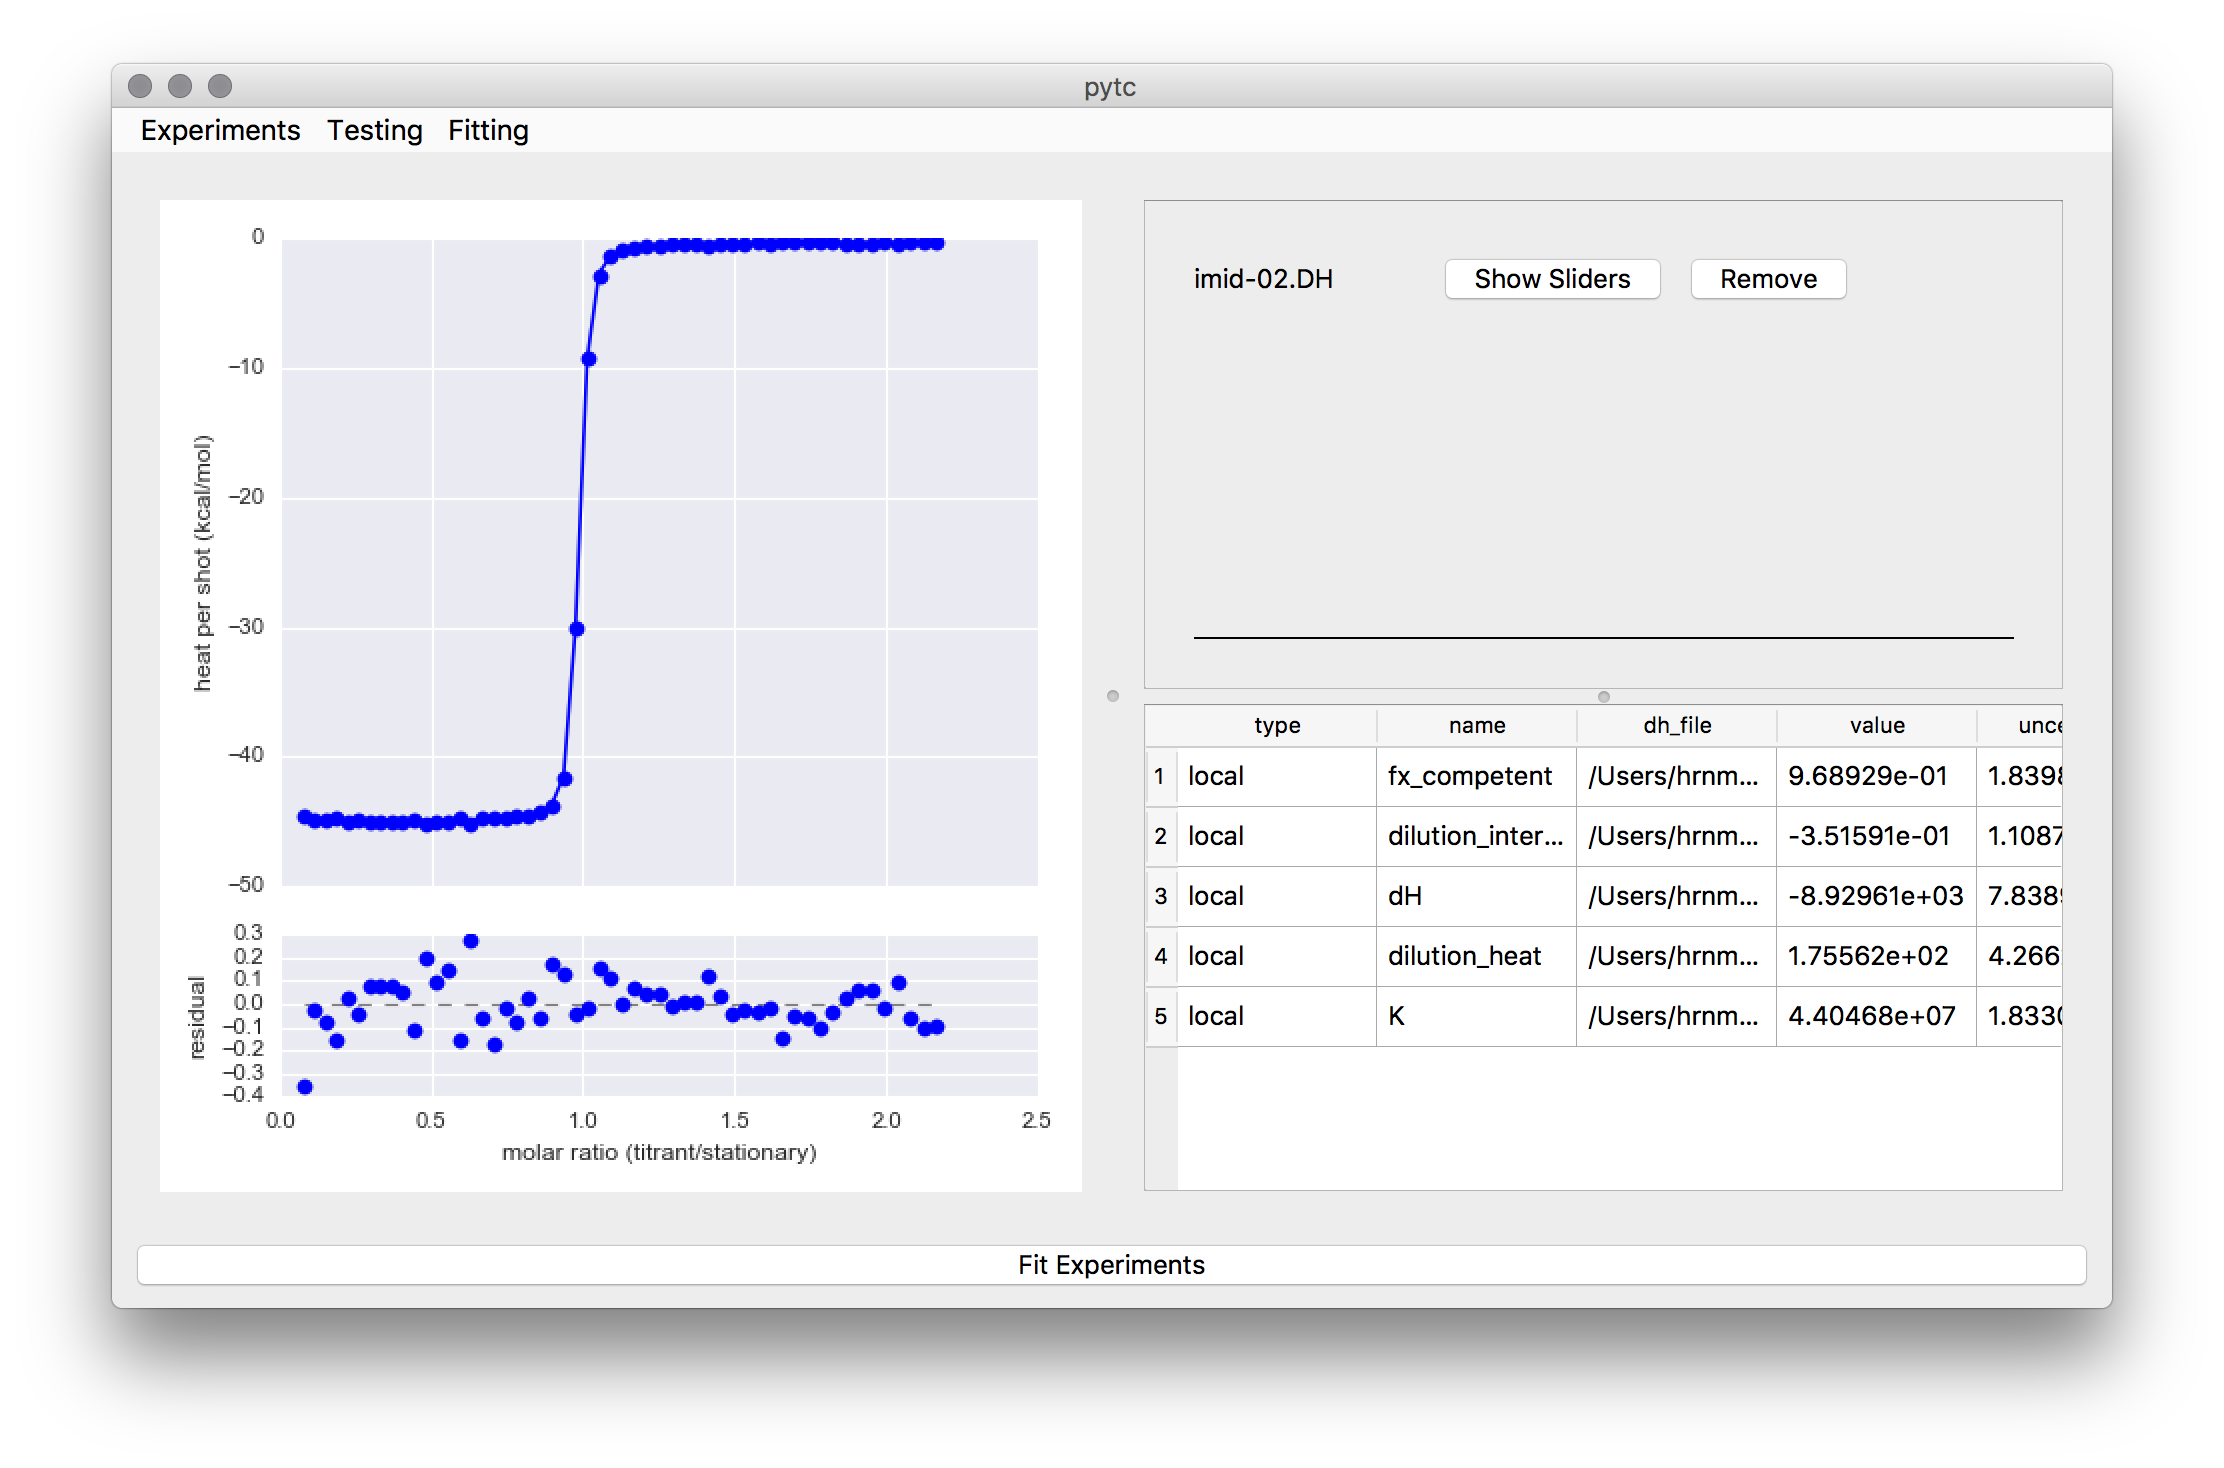
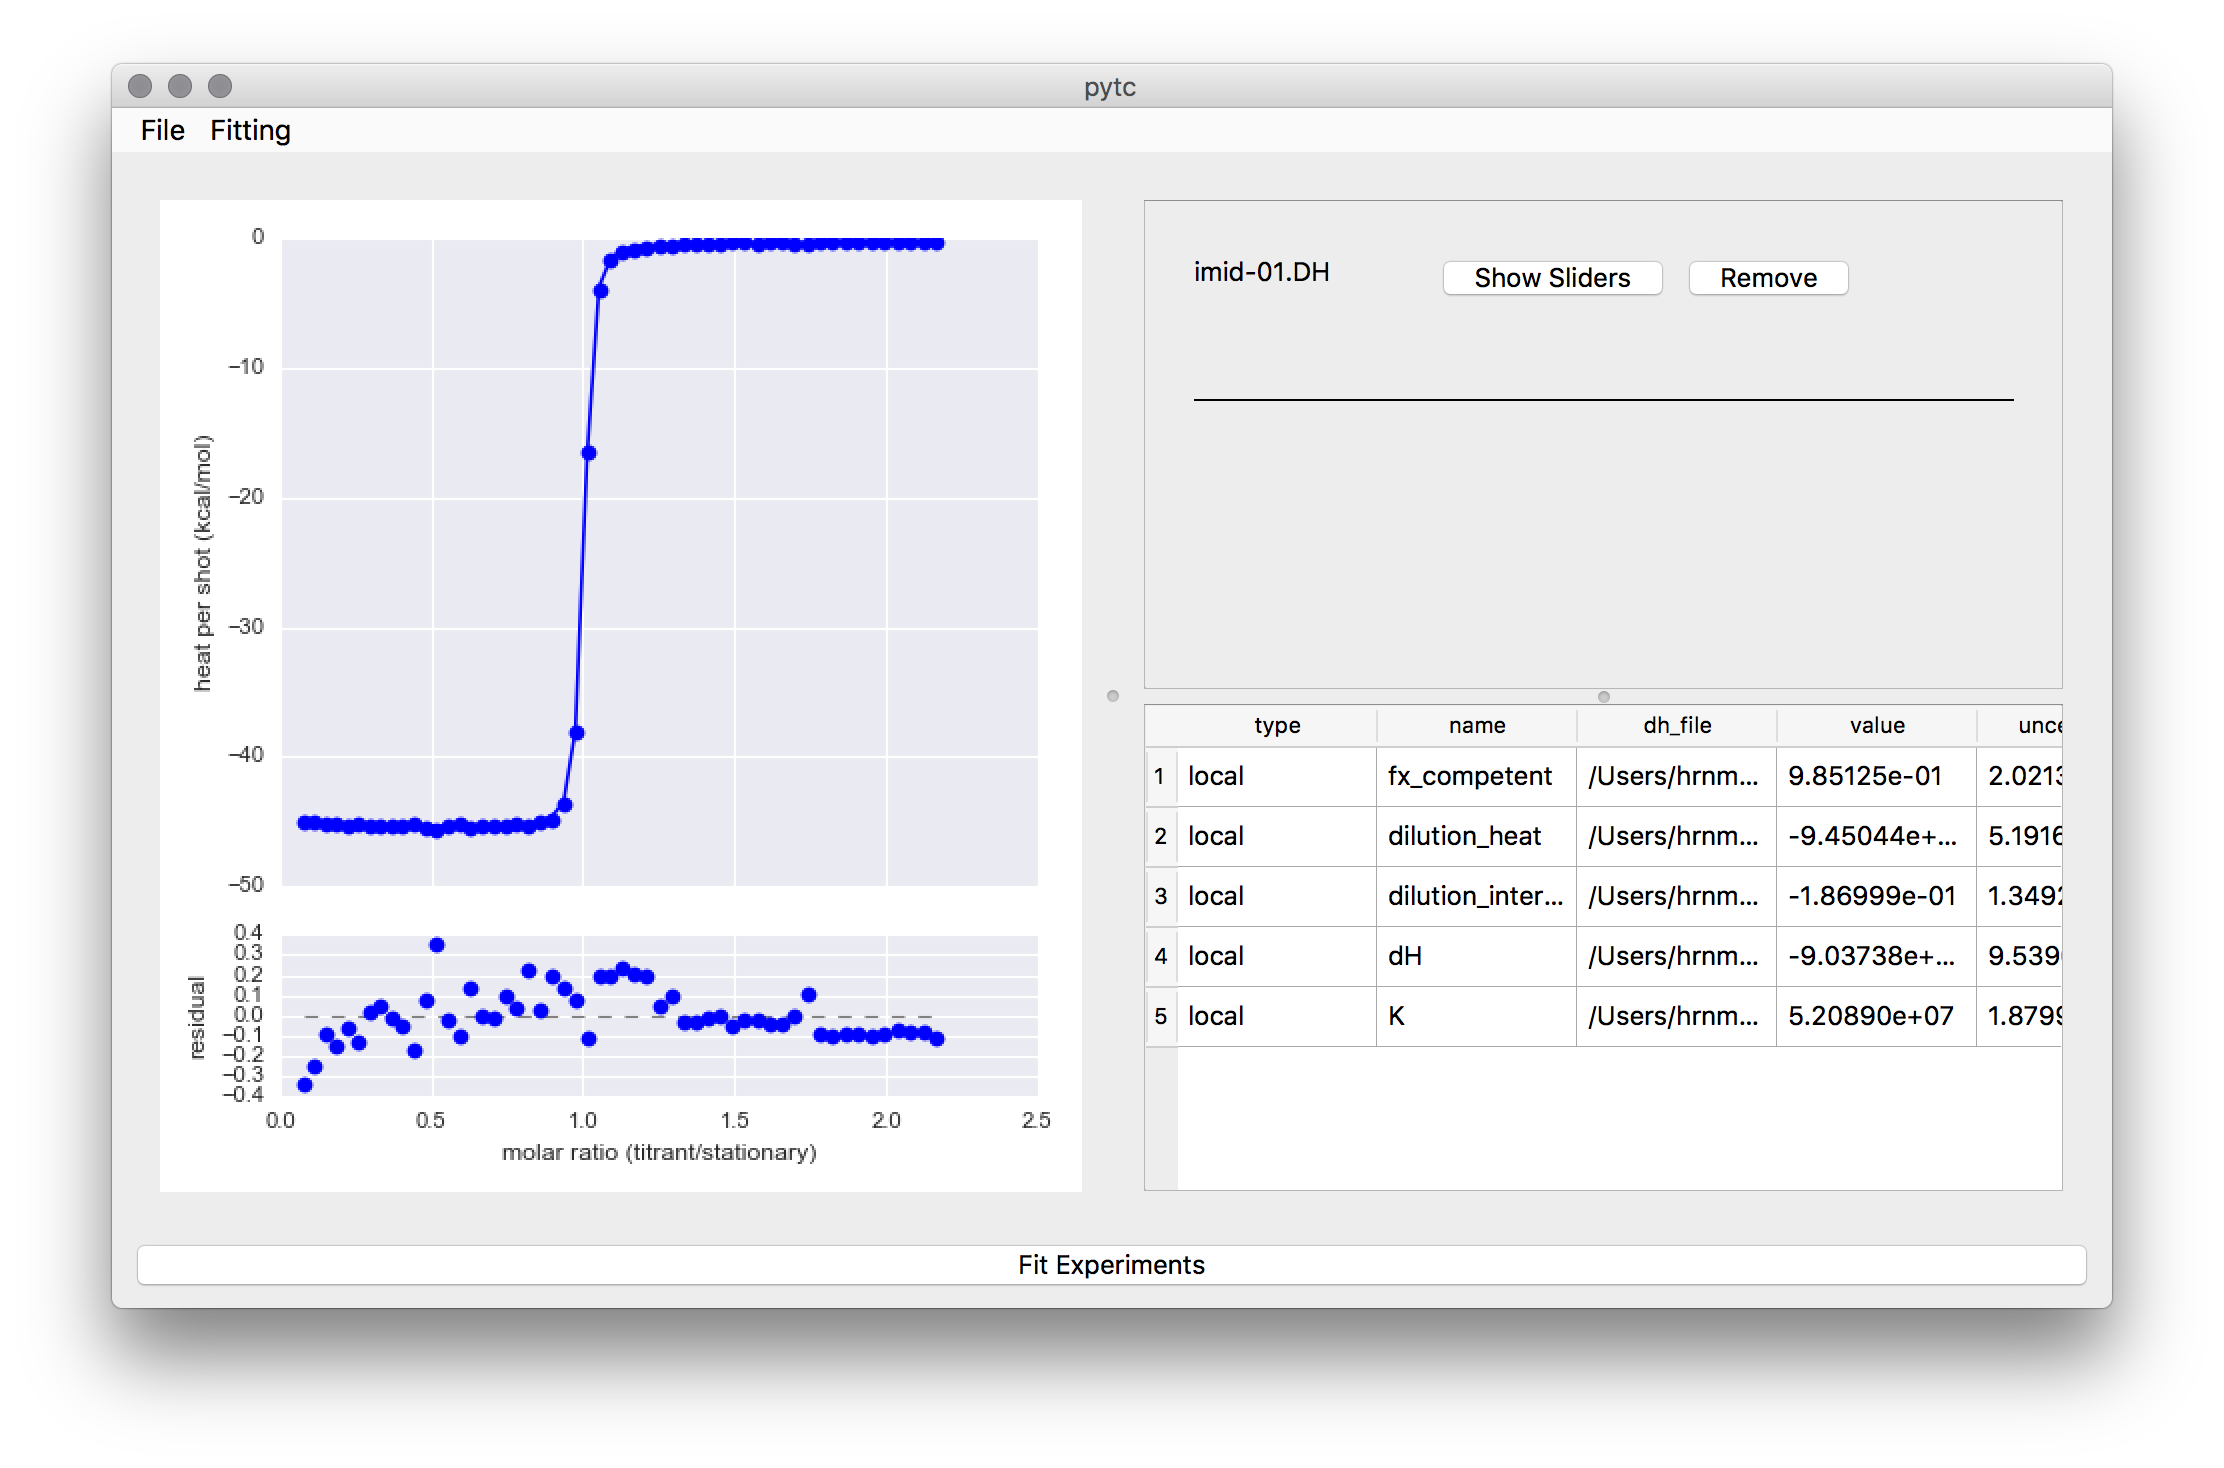
layout fixes, docs

diff --git a/pytc_gui/sliders/local_sliders.py b/pytc_gui/sliders/local_sliders.py
@@ -23,6 +23,7 @@ class LocalSliders(Sliders):
         self._global_connectors = parent._global_connectors
         self._global_tracker = parent._global_tracker
         self._exp_box = parent._exp_box
+        self._main_box = parent._main_box
         self._if_connected = None
 
         super().__init__(param_name, parent)
@@ -53,6 +54,8 @@ class LocalSliders(Sliders):
 
         self._link.activated[str].connect(self.link_unlink)
         self._main_layout.addWidget(self._link, 1, 3)
+
+        self._main_box.fit_signal.connect(self.set_fit_true)
 
     def link_unlink(self, status):
         """
@@ -98,6 +101,7 @@ class LocalSliders(Sliders):
             # connect to a simple global variable
             self._fitter.link_to_global(self._exp, self._param_name, status)
             self._slider.hide()
+            self._param_guess_label.hide()
             self._fix.hide()
             self._update_min_label.hide()
             self._update_min.hide()
@@ -111,7 +115,7 @@ class LocalSliders(Sliders):
             if status not in self._slider_list["Global"]:
                 # create global exp object and add to layout
                 param_obj = self._fitter.global_param[status]
-                global_e = exp_frames.GlobalBox(status, param_obj, self._main_box)
+                global_e = exp_frames.GlobalBox(status, param_obj, self)
                 self._global_tracker[status] = global_e
                 self._exp_box.addWidget(global_e)
 
@@ -119,6 +123,7 @@ class LocalSliders(Sliders):
         else:
             # connect to global connector
             self._slider.hide()
+            self._param_guess_label.hide()
             self._fix.hide()
             self._update_min_label.hide()
             self._update_min.hide()
@@ -135,7 +140,7 @@ class LocalSliders(Sliders):
                 self._slider_list["Global"][name] = []
 
                 # create a connector holder and add to layout
-                connector_e = exp_frames.ConnectorsBox(name, curr_connector, self._main_box)
+                connector_e = exp_frames.ConnectorsBox(name, curr_connector, self)
                 self._exp_box.addWidget(connector_e)
                 self._global_tracker[name] = connector_e
 
@@ -159,6 +164,7 @@ class LocalSliders(Sliders):
         if global exp object deleted, return local slider object to unlinked state
         """
         self._slider.show()
+        self._param_guess_label.show()
         self._fix.show()
         self._update_min_label.show()
         self._update_min.show()

diff --git a/pytc_gui/sliders/base.py b/pytc_gui/sliders/base.py
@@ -59,7 +59,6 @@ class Sliders(QWidget):
         self._fix_int.returnPressed.connect(self.fix)
         self._fix_int.hide()
 
-        # need to fix
         self._update_min_label = QLabel("min: ", self)
         self._main_layout.addWidget(self._update_min_label, 1, 4)
 
@@ -76,8 +75,6 @@ class Sliders(QWidget):
         self._update_max.returnPressed.connect(self.max_bounds)
         self._update_max.setFixedWidth(60)
 
-        self._main_box.fit_signal.connect(self.set_fit_true)
-
     @pyqtSlot()
     def set_fit_true(self):
         """
@@ -90,8 +87,9 @@ class Sliders(QWidget):
         """
         if self._fit_run:
             self._fitter.guess_to_value()
-            self._plot_frame.update()
             self._fit_run = False
+
+        self._plot_frame.update()
 
     def fix_layout(self, state):
         """
@@ -101,12 +99,14 @@ class Sliders(QWidget):
             # change widget views
             self._fix_int.show()
             self._slider.hide()
+            self._param_guess_label.hide()
             self._fitter.update_fixed(self._param_name, int(self._fix_int.text()), self._exp)
             self.check_if_fit()
         else:
             #change widget views
             self._fix_int.hide()
             self._slider.show()
+            self._param_guess_label.show()
 
             self._fitter.update_fixed(self._param_name, None, self._exp)
 
@@ -136,8 +136,6 @@ class Sliders(QWidget):
             value *= 100
         elif self._range_diff < 100000000:
             value = 10 ** value
-
-        print(value)
 
         if value != 0:
             # if guess update, update parameter as well for plot

diff --git a/pytc_gui/main_window.py b/pytc_gui/main_window.py
@@ -73,11 +73,9 @@ class Main(QMainWindow):
         menu = self.menuBar()
         menu.setNativeMenuBar(False)
 
-        file_menu = QMenu("File", self)
-        menu.addMenu(file_menu)
+        file_menu = menu.addMenu("File")
         #testing_commands = menu.addMenu("Testing")
-        fitting_commands = QMenu("Fitting", self)
-        menu.addMenu(fitting_commands)
+        fitting_commands = menu.addMenu("Fitting")
 
         fit_exp = QAction("Fit Experiments", self)
         fit_exp.setShortcut("Ctrl+F")
@@ -134,7 +132,7 @@ class Main(QMainWindow):
         self.setCentralWidget(self._exp)
 
         self.resize(1000, 600)
-        self.move(QApplication.desktop().screen().rect().center()- self.rect().center())
+        self.move(QApplication.desktop().screen().rect().center()-self.rect().center())
         self.setWindowTitle('pytc')
         self.show()
 

diff --git a/pytc_gui/exp_frames/local_box.py b/pytc_gui/exp_frames/local_box.py
@@ -20,6 +20,7 @@ class LocalBox(Experiments):
         self._required_fields = {}
         self._experiments = parent._experiments
         self._exp_box = parent._exp_box
+        self._main_box = parent
 
         super().__init__(name, parent)
 
@@ -61,10 +62,10 @@ class LocalBox(Experiments):
                     stretch.addStretch(1)
 
                     self._req_layout.addLayout(stretch)
+                    self.setFixedHeight(self.height()+20)
                 else:
                     print("already there")
-
-    @pyqtSlot()
+                    
     def set_attr(self):
         """
         update data from global connector fields

diff --git a/pytc_gui/exp_frames/base.py b/pytc_gui/exp_frames/base.py
@@ -22,7 +22,6 @@ class Experiments(QWidget):
         self._connectors_seen = parent._connectors_seen
         self._global_connectors = parent._global_connectors
         self._plot_frame = parent._plot_frame
-        self._main_box = parent
 
         self.layout()
 
@@ -71,7 +70,7 @@ class Experiments(QWidget):
 
         self.exp_widgets()
 
-        self.setFixedHeight(100)
+        self.setFixedHeight(110)
 
     def exp_widgets(self):
         """

diff --git a/pytc_gui/sliders/global_sliders.py b/pytc_gui/sliders/global_sliders.py
@@ -28,6 +28,8 @@ class GlobalSliders(Sliders):
 
         super().bounds()
 
+        self._main_box.fit_signal.connect(self.set_fit_true)
+
     def update_bounds(self):
         """
         update min/max bounds and check if range needs to be updated as well

diff --git a/pytc_gui/exp_frames/connectors_box.py b/pytc_gui/exp_frames/connectors_box.py
@@ -18,6 +18,7 @@ class ConnectorsBox(Experiments):
         """
         self._connector = connector
         self._linked_list = []
+        self._main_box = parent._main_box
         self._exp = None
 
         super().__init__(name, parent)

diff --git a/pytc_gui/exp_frames/global_box.py b/pytc_gui/exp_frames/global_box.py
@@ -17,6 +17,7 @@ class GlobalBox(Experiments):
 
         self._linked_list = []
         self._fit_object = fit_object
+        self._main_box = parent._main_box
         self._exp = None
 
         super().__init__(name, parent)

diff --git a/docs/source/how_to_img.rst b/docs/source/how_to_img.rst
@@ -7,20 +7,77 @@ Setting Up
 
 Single-Site Model
 -----------------
-.. image:: /screenshots/general/01.png
+for performing a simple single-site model fit.
+
+.. figure:: /screenshots/fitting/01.png
+	:width: 40%
+	:figclass: align-center
+
+	First, go to File > Add Experiment. Select the model, load in the file, and shot start. Repeat for each experiment/blank.
+
+.. figure:: /screenshots/fitting/02.png
+	:figclass: align-center
+
+	before fitting, graph shows the parameter guesses of each experiment that has been loaded in.
+
+.. figure:: /screenshots/fitting/03.png
+	:figclass: align-center
+
+	To perform a fit, go to Fitting -> Fit Experiments.
+
+This can be repeated for any model you'd like to fit. Any new models you make will automatically be updated in the GUI. 
 
 Connecting to Global Variables
 ==============================
 
 Simple Global
 -------------
-.. image:: /screenshots/general/02.png
+.. figure:: /screenshots/global_var/01.png
+	:width: 60%
+	:figclass: align-center
+
+	The sliders for each experiment show up in a pop-up when you click on **Show Sliders** next to the experiment name. Each pop-up has this general layout. To add a new global variable, select **Add Global Var** from the dropdown.
+
+.. figure:: /screenshots/global_var/02.png
+	:width: 40%
+	:figclass: align-center
+
+	This pop-up will show up and allow you to name the global variable.
+
+.. figure:: /screenshots/global_var/03.png
+	:width: 60%
+	:figclass: align-center
+
+	Once a global variable is made, it can be connected to any parameter by selecting it from the dropdown menu for that parameter.
+
+.. figure:: /screenshots/global_var/04.png
+	:figclass: align-center
+
+	A new entry is made for the global variable. After this select Fitting > Fit Experiments. The parameter box and graph will update for the new linked fit.
 
 Connectors
 ----------
-.. image:: /screenshots/general/03.png
+.. figure:: /screenshots/global_var/05.png
+	:width: 40%
+	:figclass: align-center
 
+	Connectors are linked in a similar way, except instead select **Add Connector** from the dropdown menu. A new pop-up will come up allowing you to select the type of connector you'd like to make, the name, and any general variables linked to the connector.
 
+.. figure:: /screenshots/global_var/06.png
+	:width: 60%
+	:figclass: align-center
+
+	Again, link parameters to a connector parameter by selecting the connector from the dropdown menu.
+
+.. figure:: /screenshots/global_var/07.png
+	:figclass: align-center
+
+	Some connectors might require some variables to be defined for a specific experiment, these need to be defined before performing the new fit.
+
+.. figure:: /screenshots/global_var/08.png
+	:figclass: align-center
+
+	Once everything is set, perform the new fit.
 
 Indices and tables
 ==================

diff --git a/docs/source/index.rst b/docs/source/index.rst
@@ -6,11 +6,11 @@ Dependencies
 ============
 
 * python 3.x
-* qtpy
+* pyqt5
 * pytc
 * seaborn
 
-QtPy is a wrapper that allows the use of PyQt4, PyQt5, or PySide. The GUI was built using **PyQt5**.
+The GUI was built using **PyQt5**.
 
 Installation 
 =============
@@ -27,11 +27,33 @@ run:
   cd pytc-gui
   python3 setup.py install
 
-or
-
+the gui can also be pip installed
 ::
 
-  pip install pytc-gui
+  pip3 install pytc-gui
+
+
+installing PyQt5/sip yourself
+-----------------------------
+**if you frequently use python and have at least 3.5 installed, PyQt5/sip can be installed through pip**
+
+to check which version of python3 you are currently using, run the following on terminal:
+::
+
+  python3 -V
+
+run the following in terminal:
+::
+
+  pip3 install PyQt5
+
+sip will automatically be downloaded with PyQt5.
+
+if you use anaconda to manage your python3 packages, PyQt5 should already be installed. if not, it can
+be installed with the following command:
+::
+
+  conda install pyqt
 
 
 bash or .exe scripts
@@ -45,7 +67,6 @@ Mac/Linux: download the bash file and run the following on terminal and then fol
 
   bash pytcreqs-0.1.0-VERSION.sh 
 
-
 Start-up
 ========
 
@@ -57,6 +78,13 @@ Main Interface
  + add in new experiments
  + until a fit is performed, plot will show the guesses put in from the slider values
  + saving out the data saves out a .csv with fit data as well as the graph from the fit
+
+.. toctree::
+   :maxdepth: 2
+   :caption: Contents:
+
+   how_to_img.rst
+   gui_module.rst
 
 Documentation - pytc
 ====================

diff --git a/README.md b/README.md
@@ -6,6 +6,6 @@ PyQt5 GUI for pytc API
 
 ## installation files
 
- + windows
- + mac
- + linux
+ + [windows]()
+ + [mac]()
+ + [linux]()
